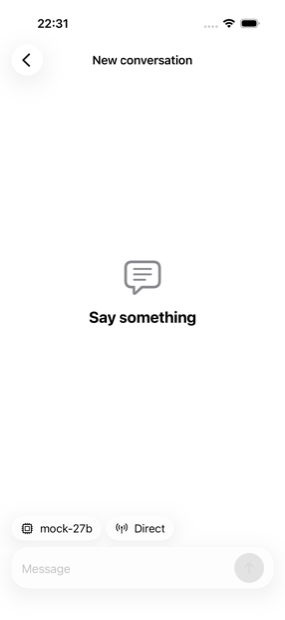
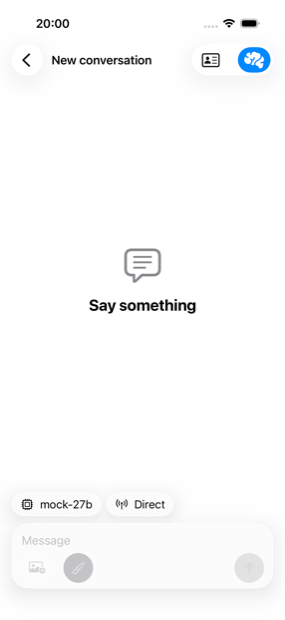
docs(readme): fresh screenshots, a Status a reader can scan, and the rest of the set (#248)

diff --git a/README.md b/README.md
@@ -12,69 +12,63 @@ The app is generic: any OpenAI-compatible provider works.
 
 ## What it looks like
 
-| Streaming from gglib | A pipe, connected | gglib's server status |
-|---|---|---|
-| ![A finished reply on an iPhone](docs/screenshots/iphone-reply.png) | ![The model pill beside a status pill reading Direct](docs/screenshots/iphone-pipe-connected.png) | ![Slots, context used, and recent requests](docs/screenshots/iphone-server-status.png) |
+| Streaming from gglib | A pipe, connected | gglib's server status | Whether a model fits this phone |
+|---|---|---|---|
+| ![A finished reply on an iPhone](docs/screenshots/iphone-reply.png) | ![The model pill beside a status pill reading Direct](docs/screenshots/iphone-pipe-connected.png) | ![Slots, context used, and recent requests](docs/screenshots/iphone-server-status.png) | ![A repository's quants, each marked fits, short context, too big, or can't tell yet](docs/screenshots/iphone-on-device-browser.png) |
 
 ![The macOS window, with a conversation open](docs/screenshots/macos-chat.png)
 
-These are photographs of the app, not mock-ups. The three iPhone ones are
+These are photographs of the app, not mock-ups. The four iPhone ones are
 attachments the UI tests take as they walk through it, and `make
 screenshots` regenerates them from a test run, so a picture cannot quietly
-go stale. The first is a real reply from gglib.
+go stale. The first is a real reply from gglib; the fourth is the on-device
+model browser against the mock engine the tests use.
 
 ## Status
 
 Each release is on the [releases page](https://github.com/mmogr/ggchat/releases),
-with what it changed. What exists today is the core package (the provider
-protocol, the OpenAI-compatible implementation, the SSE parser, the pipe
-seam with its mock, its pairing and its reader) and the
-app shell: a sidebar of conversations persisted with SwiftData, a
-providers sheet
-that adds a server by address or a pipe by its pairing string,
-and settings. The transcript streams replies as markdown with copyable code
-blocks, tables drawn as tables, and collapsed reasoning, with a stop button and, when a reply stops
-early, a Continue button, and each conversation can carry a system prompt of
-its own, set from the toolbar and sent ahead of every request without ever
-becoming a row in the transcript; a request refused before anything arrived
-says why under the question, with a Retry button. A server added by address lists its models and
-streams; against gglib, a server status pane shows slots, context in use
-and recent requests, with the MCP servers a paired Mac offers listed one
-by one, and it is
-hidden for servers that do not answer that endpoint. The app has been run: the screens above are photographs of it,
-not mock-ups. A pipe provider is added by pasting the `ticket-code` string
-the other machine showed for it (`gglib remote enable --invite` for the
-first device, `gglib remote invite` for each one after that), or on iOS by
-scanning its QR code: the six-digit code is spent once, through the pipe
-itself, for a key minted for this device alone, so no key is ever read off
-one screen and typed into another — and the pipe it was spent over is the
-one that provider keeps, so a first pairing costs one hole punch and not
-two. A bare ticket, with no code, is for a device that already holds its
-key. Connecting goes through `PipeConnector`: a release build dials and
-pairs with `ModelpipeConnector`, and a DEBUG build uses a mock that walks
-idle → relayed → direct. The status pill
-follows the session, reads "Reconnect" when the pipe closes, and stays
-pressable in every state but a dial in flight, because a connected status
-can be stale. Going
-to the background hangs up every pipe and puts down every reply in flight,
-except a reply to gglib, which the hub goes on writing and the app reads on
-from where it stopped, and coming back dials again. A provider's row opens its settings, so a
-machine that has stopped admitting this device, or whose endpoint identity
-was deleted, is re-paired in place and keeps its conversations. Settings
-shows how many distinct tickets this device has connected to. In DEBUG
-builds a mock provider streams canned replies without a server.
+with what it changed. What exists today:
 
-**A shipped build now dials for real.** `GGChatPipe` is a target of its own
-that links `modelpipe-ffi`, and it is the only place the boundary check
-permits `import Modelpipe`; `ModelpipeConnector` behind it has modelpipe read
-a ticket, dials, and hands back a session whose loopback URL is the far
-machine. The
-mock stays on the DEBUG side of `PipeConnectorFactory` rather than being
-replaced, because it is what the Settings screen's "Force closed" control and
-twenty-odd app-model tests are written against. It is absent from a release
-build, not merely unchosen: `MockPipeConnector` and `MockPipeSession` are
-declared inside an `#if DEBUG`, and `make build-release` fails if either
-symbol is in the release objects.
+- Any OpenAI-compatible server, added by address. It lists its models and
+  streams replies as markdown: copyable code blocks, tables drawn as
+  tables, collapsed reasoning, a stop button, and a Continue button when a
+  reply stops early. Conversations are kept with SwiftData. Each can carry
+  its own system prompt, set from the toolbar, sent ahead of every request
+  and never shown as a row. A request refused before anything arrived says
+  why under the question, with Retry.
+- A pipe to a machine at home. Paste the `ticket-code` string the other
+  machine showed (`gglib remote enable --invite` for the first device,
+  `gglib remote invite` for each one after), or, on an iPhone or iPad, scan
+  its QR code. The six-digit code is spent once, through the pipe itself, for a
+  key minted for this device alone, so no key is ever read off one screen
+  and typed into another, and a first pairing costs one hole punch. A bare
+  ticket, with no code, is for a device that already holds its key. The
+  status pill follows the session and reads "Reconnect" when the pipe
+  closes.
+- gglib's own server status pane, when the server is gglib: slots, context
+  in use, recent requests, and the MCP servers a paired Mac offers. Hidden
+  for servers that do not answer that endpoint.
+- Going to the background hangs up every pipe and puts down every reply in
+  flight, except a reply to gglib, which the hub goes on writing and the
+  app reads on from where it stopped. Coming back dials again.
+- A machine that has stopped admitting this device, or whose endpoint
+  identity was deleted, is re-paired in place from its provider row and
+  keeps its conversations.
+- A shipped build dials for real. `GGChatPipe` is the one target that links
+  `modelpipe-ffi`; a DEBUG build uses a mock that walks idle → relayed →
+  direct, and a mock provider that streams canned replies without a server.
+  `make build-release` fails if the mock's symbols are in the release
+  objects.
+
+What is still missing is on the [issues page](https://github.com/mmogr/ggchat/issues).
+
+## The rest of the set
+
+ggchat is the phone. [gglib](https://github.com/mmogr/gglib) is the server
+it is built around: a library of GGUF models served through llama.cpp as
+one OpenAI-compatible endpoint. [modelpipe](https://github.com/mmogr/modelpipe)
+is the reach: the end-to-end encrypted peer-to-peer connection that puts
+that endpoint on this phone with no VPN and no account.
 
 ## What is true today
 
